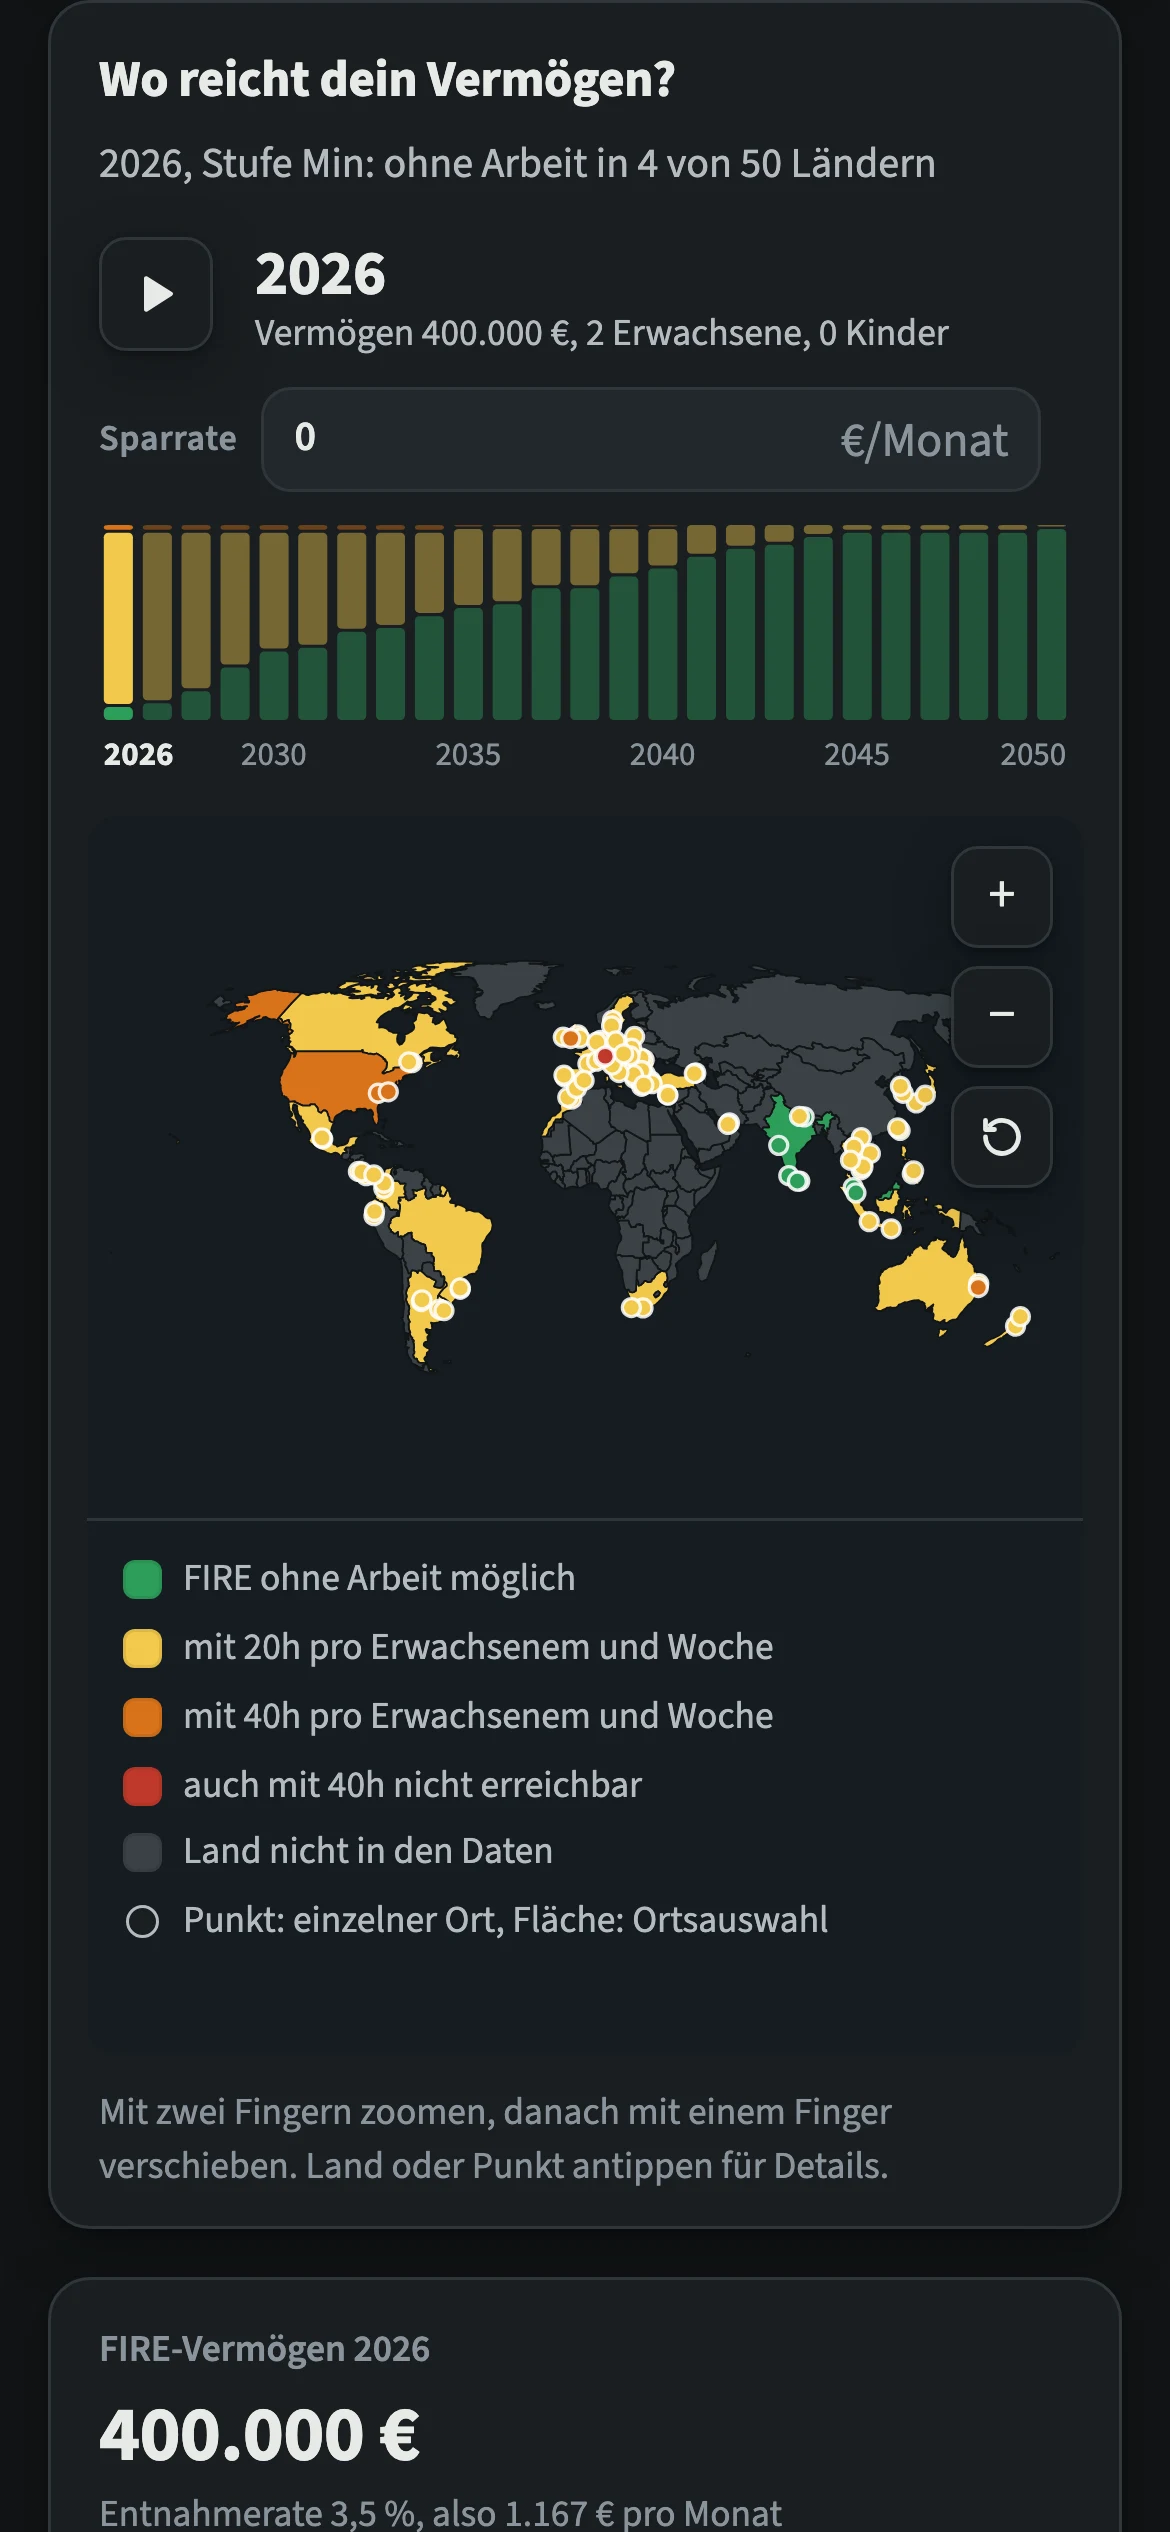
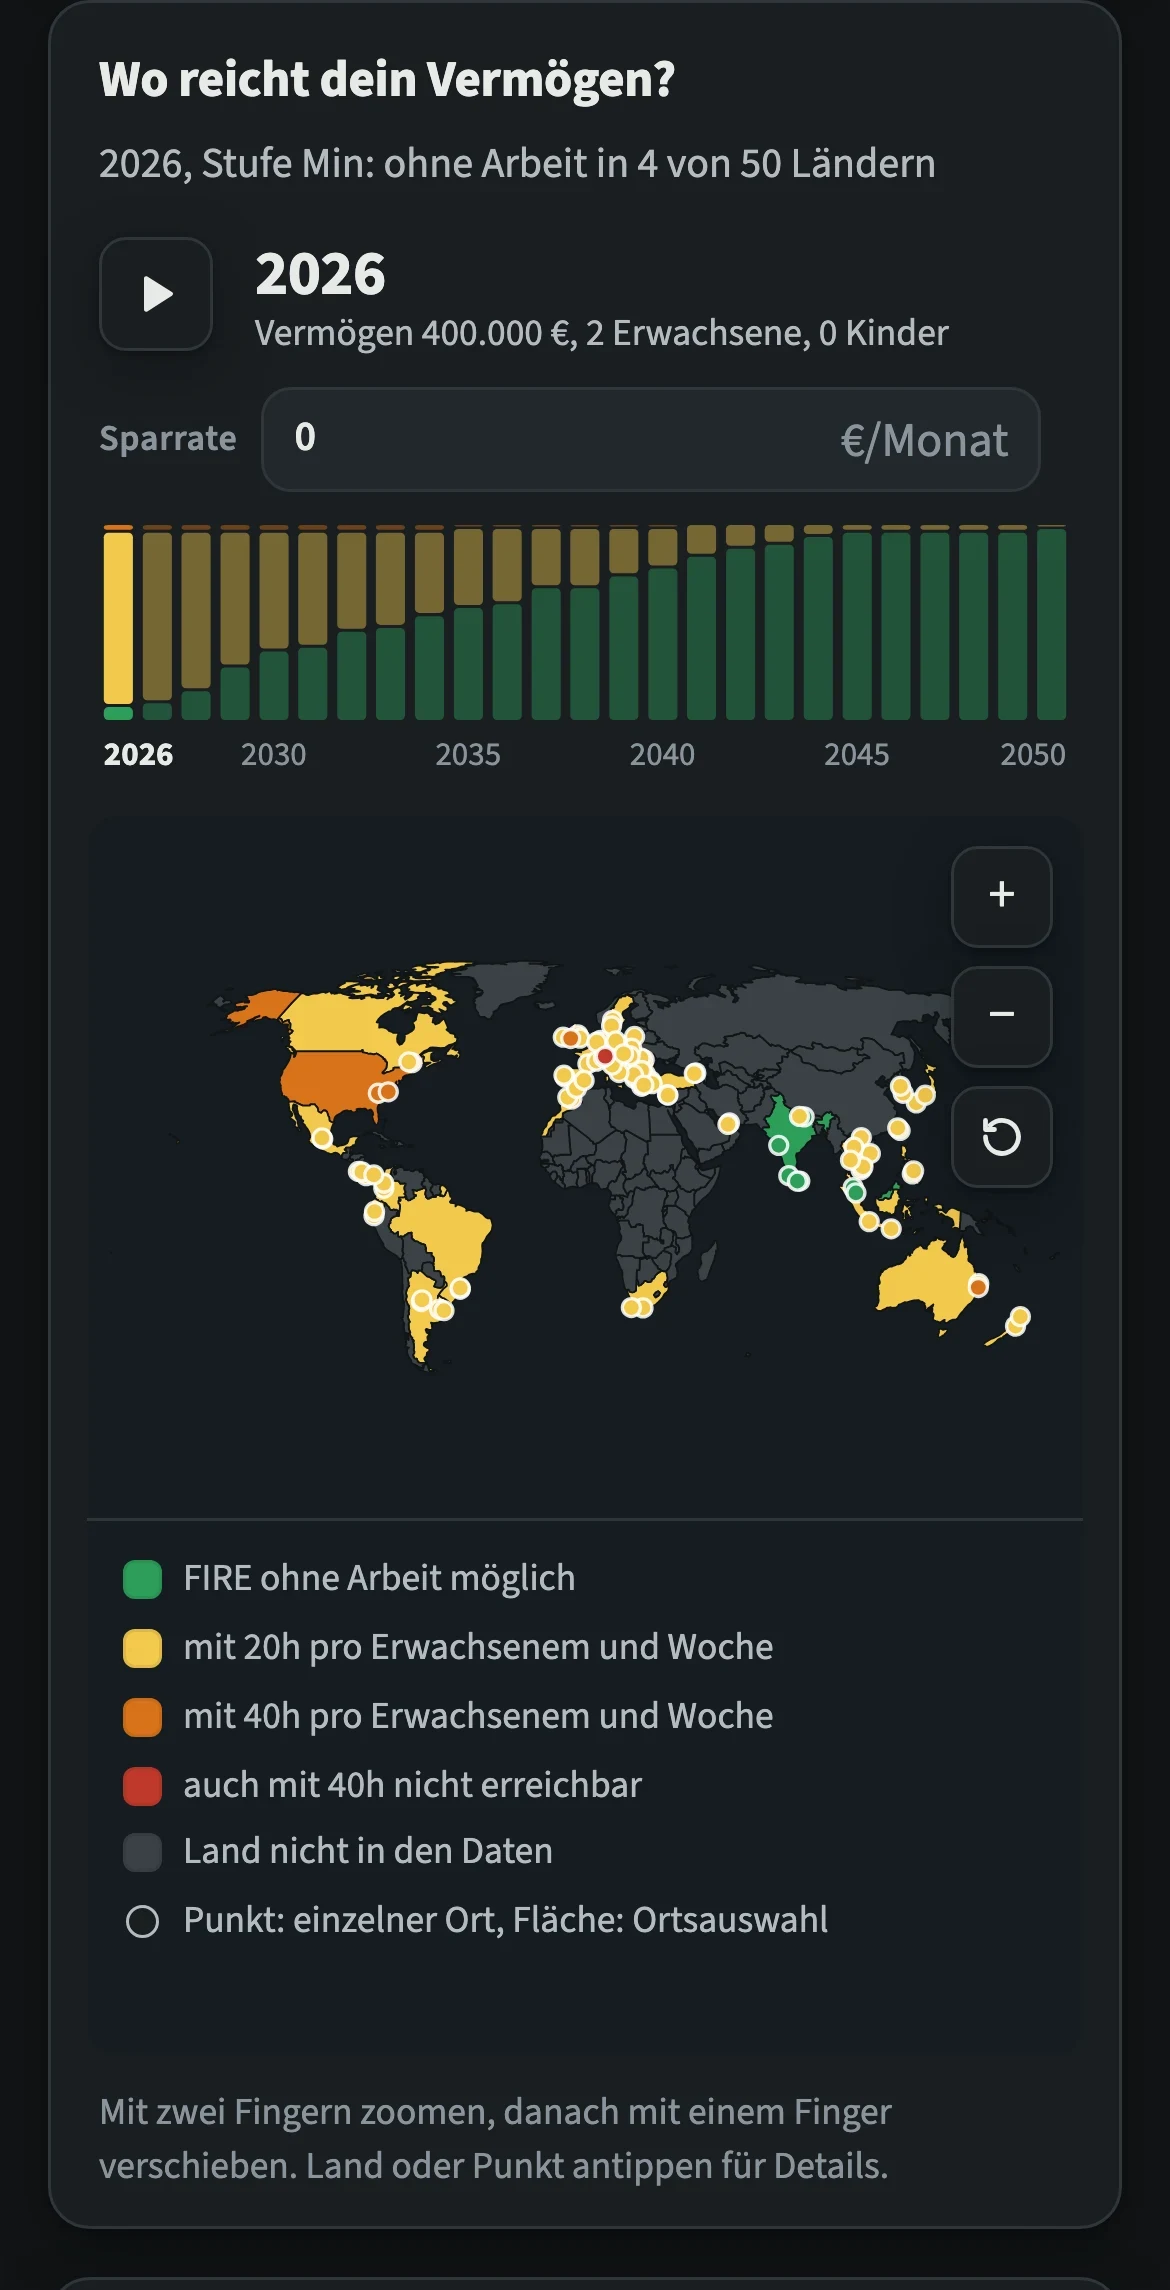
Live-Prüfung: Link-Vorschaubild, Karte als Sprungziel, noindex für die App, Wortmarke mobil, Zoom-Knöpfe unten, Hero-Handybild beschnitten

Changed region(s): [[0.0615, 0.0, 0.9231, 0.8681], [0.0615, 0.8991, 0.7692, 1.0]]

diff --git a/index.html b/index.html
@@ -15,6 +15,13 @@
 <meta property="og:description" content="Interaktive Weltkarte mit 99 Orten in 50 Ländern: wo dein Vermögen rechnerisch ohne Arbeit reicht, wo mit 20 oder 40 Stunden pro Woche. Beta, kostenlos, ohne Konto.">
 <meta property="og:type" content="website">
 <meta property="og:locale" content="de_DE">
+<meta property="og:url" content="https://peppe1337.github.io/freiatlas/">
+<meta property="og:image" content="https://peppe1337.github.io/freiatlas/assets/og.png">
+<meta property="og:image:width" content="1200">
+<meta property="og:image:height" content="630">
+<meta property="og:image:alt" content="Freiatlas: Weltkarte mit Ampelfarben, wo dein Vermögen reicht">
+<meta name="twitter:card" content="summary_large_image">
+<meta name="twitter:image" content="https://peppe1337.github.io/freiatlas/assets/og.png">
 <link rel="icon" href="favicon.svg" type="image/svg+xml">
 <link rel="icon" href="favicon.ico" sizes="any">
 <link rel="apple-touch-icon" href="apple-touch-icon.png">
@@ -131,7 +138,7 @@
   .brand { display: inline-flex; align-items: center; color: var(--fa-word); text-decoration: none; }
   .brand .lockup { display: block; width: 180px; height: 28px; }
   .brand .mark-only { display: none; width: 28px; height: 28px; }
-  @media (max-width: 479px) { .brand .lockup { display: none; } .brand .mark-only { display: block; } }
+  @media (max-width: 479px) { .brand .lockup { width: 154px; height: 24px; } }
   .topnav { display: flex; align-items: center; gap: 4px 16px; }
   .topnav ul { list-style: none; margin: 0; padding: 0; display: flex; gap: 4px; }
   .topnav li { margin: 0; }
@@ -357,7 +364,7 @@
         <li><a href="#modell">Modell</a></li>
         <li><a href="#faq">Fragen</a></li>
       </ul>
-      <a class="cta" href="app/">Karte öffnen</a>
+      <a class="cta" href="app/#karte">Karte öffnen</a>
     </nav>
     <details class="menu">
       <summary>Menü</summary>
@@ -367,7 +374,7 @@
           <li><a href="#beispiel">Beispiel</a></li>
           <li><a href="#modell">Modell</a></li>
           <li><a href="#faq">Fragen</a></li>
-          <li><a class="cta" href="app/">Karte öffnen</a></li>
+          <li><a class="cta" href="app/#karte">Karte öffnen</a></li>
         </ul>
       </nav>
     </details>
@@ -391,7 +398,7 @@
         <h1 id="h-hero">Alle Orte, an denen dein Vermögen&nbsp;reicht</h1>
         <p class="lead">Freiatlas ist eine Weltkarte mit 99 Orten in 50 Ländern. Du trägst Haushalt und Vermögen ein, und die Karte zeigt nach einem offengelegten Modell, wo es ohne Arbeit reicht, wo mit 20 oder 40 Stunden pro Woche, und wo noch nicht.</p>
         <div class="btn-row">
-          <a class="btn btn-primary" href="app/">Karte öffnen</a>
+          <a class="btn btn-primary" href="app/#karte">Karte öffnen</a>
           <a class="btn btn-secondary" href="#modell">So rechnet Freiatlas</a>
         </div>
         <p class="privacy">Alles wird in deinem Browser gerechnet, ohne Konto, ohne Cookies und ohne Tracking.</p>
@@ -399,8 +406,8 @@
       <figure>
         <div class="shot">
           <picture>
-            <source media="(prefers-color-scheme: dark) and (max-width: 720px)" srcset="assets/screens/mobile-dark.webp" width="390" height="844">
-            <source media="(max-width: 720px)" srcset="assets/screens/mobile-light.webp" width="390" height="844">
+            <source media="(prefers-color-scheme: dark) and (max-width: 720px)" srcset="assets/screens/mobile-dark.webp" width="390" height="763">
+            <source media="(max-width: 720px)" srcset="assets/screens/mobile-light.webp" width="390" height="763">
             <source media="(prefers-color-scheme: dark)" srcset="assets/screens/map-dark.webp" width="1208" height="824">
             <img src="assets/screens/map-light.webp" width="1208" height="824" alt="Weltkarte im Jahr 2026 mit Ländern in den Ampelfarben grün, gelb und orange, darüber die Zeitachse von 2026 bis 2050 und das Vermögen 400.000&#160;€." loading="eager" decoding="async" fetchpriority="high">
           </picture>
@@ -560,7 +567,7 @@
           <source media="(prefers-color-scheme: dark) and (max-width: 720px)" srcset="assets/screens/mobile-drawer-dark.webp" width="390" height="844">
             <source media="(max-width: 720px)" srcset="assets/screens/mobile-drawer-light.webp" width="390" height="844">
             <source media="(prefers-color-scheme: dark)" srcset="assets/screens/mobile-dark.webp">
-          <img src="assets/screens/mobile-light.webp" width="390" height="844" loading="lazy" decoding="async" alt="Die App auf einem Handybildschirm: Zeitachse auf 2026, Weltkarte mit Ampelfarben und Legende, auf schmalen Bildschirmen stattdessen die Kostenaufschlüsselung für Varkala.">
+          <img src="assets/screens/mobile-light.webp" width="390" height="763" loading="lazy" decoding="async" alt="Die App auf einem Handybildschirm: Zeitachse auf 2026, Weltkarte mit Ampelfarben und Legende, auf schmalen Bildschirmen stattdessen die Kostenaufschlüsselung für Varkala.">
         </picture>
       </div>
     </article>
@@ -712,7 +719,7 @@
         <h2 id="h-final">Schau nach, wo es heute schon reicht</h2>
         <p>Trag deinen Haushalt und dein Vermögen ein, die Karte antwortet nach einem Modell, dessen Rechenweg du an jedem Ort nachlesen kannst.</p>
         <div class="btn-row">
-          <a class="btn btn-primary" href="app/">Karte öffnen</a>
+          <a class="btn btn-primary" href="app/#karte">Karte öffnen</a>
         </div>
       </div>
     </div>

diff --git a/app/index.html b/app/index.html
@@ -6,6 +6,7 @@
 <meta name="color-scheme" content="light dark">
 <meta http-equiv="Content-Security-Policy" content="default-src 'self'; script-src 'self' 'unsafe-inline'; style-src 'self' 'unsafe-inline'; img-src 'self' data:; connect-src 'self'; base-uri 'self'; form-action 'none'">
 <meta name="referrer" content="no-referrer">
+<meta name="robots" content="noindex">
 <title>Freiatlas</title>
 <meta name="description" content="Wo kannst du mit deinem Vermögen finanziell unabhängig leben, und wie viel Arbeit wäre dafür nötig? Interaktive Weltkarte für FIRE und Auswandern, mit 99 Orten in 50 Ländern.">
 <meta property="og:title" content="Freiatlas">
@@ -82,6 +83,8 @@ body {
 h1 { font-size: 26px; line-height: 1.2; margin: 0 0 6px; letter-spacing: -.01em; }
 .brand-lockup { display: flex; align-items: center; gap: 12px; font: 500 30px/1 "Newsreader Variable", Georgia, "Times New Roman", serif; font-optical-sizing: auto; letter-spacing: -.005em; margin: 0 0 8px; }
 .brand-mark { width: 30px; height: 30px; flex: none; }
+.brand-lockup a { display: flex; align-items: center; gap: inherit; color: inherit; text-decoration: none; }
+.brand-lockup a:hover { color: var(--accent); }
 h2 { font-size: 17px; margin: 0; letter-spacing: -.005em; }
 .lede { margin: 0; color: var(--ink-2); max-width: 70ch; }
 .page-head { margin-bottom: 20px; }
@@ -285,6 +288,7 @@ section + section { margin-top: 16px; }
 .tl-chart:focus-visible { outline: 2px solid var(--accent); outline-offset: 4px; }
 .tl-chart svg { display: block; width: 100%; height: 100%; overflow: visible; }
 .tl-chart .bar { transition: opacity .15s; }
+@media (prefers-color-scheme: dark) { .tl-chart g.bar { opacity: .62; } .tl-chart g.bar.sel { opacity: 1; } }
 .tl-chart .axis { font-size: 11px; fill: var(--muted); }
 .tl-chart .axis.now { fill: var(--ink); font-weight: 700; }
 .tl-chart .cursor { fill: var(--ink); }
@@ -528,6 +532,7 @@ footer p { margin: 0 0 4px; }
   .seg button { flex: 1 1 auto; padding: 6px 8px; }
   .field-note { max-width: none; }
   .tl-save { margin-left: 0; width: 100%; }
+  .zoom-ctl { top: auto; bottom: 10px; }
   .drawer {
     top: auto; left: 0; width: 100%; max-height: 88vh; border-left: 0; border-top: 1px solid var(--border);
     border-radius: 16px 16px 0 0; transform: translateY(100%);
@@ -547,7 +552,7 @@ footer p { margin: 0 0 4px; }
 <body>
 <div class="wrap">
   <header class="page-head">
-    <h1 class="brand-lockup"><svg class="brand-mark" viewBox="0 0 64 64" aria-hidden="true" focusable="false"><style>.fa-line{stroke:var(--fa-line)}.fa-dot{fill:var(--fa-dot)}</style><defs><mask id="fa-gap" maskUnits="userSpaceOnUse" x="0" y="0" width="64" height="64"><rect width="64" height="64" fill="#fff"/><circle cx="40.8" cy="20" r="8" fill="#000"/></mask></defs><circle class="fa-line" cx="32" cy="32" r="26" fill="none" stroke-width="4.5"/><g class="fa-line" mask="url(#fa-gap)" fill="none" stroke-linecap="round"><path d="M6 32H58" stroke-width="4.5"/><path d="M32 6A10 26 0 0 1 32 58" stroke-width="3.5"/></g><circle class="fa-dot" cx="40.8" cy="20" r="5.5"/></svg>Freiatlas</h1>
+    <h1 class="brand-lockup"><a href="../" aria-label="Zur Startseite"><svg class="brand-mark" viewBox="0 0 64 64" aria-hidden="true" focusable="false"><style>.fa-line{stroke:var(--fa-line)}.fa-dot{fill:var(--fa-dot)}</style><defs><mask id="fa-gap" maskUnits="userSpaceOnUse" x="0" y="0" width="64" height="64"><rect width="64" height="64" fill="#fff"/><circle cx="40.8" cy="20" r="8" fill="#000"/></mask></defs><circle class="fa-line" cx="32" cy="32" r="26" fill="none" stroke-width="4.5"/><g class="fa-line" mask="url(#fa-gap)" fill="none" stroke-linecap="round"><path d="M6 32H58" stroke-width="4.5"/><path d="M32 6A10 26 0 0 1 32 58" stroke-width="3.5"/></g><circle class="fa-dot" cx="40.8" cy="20" r="5.5"/></svg>Freiatlas</a></h1>
     <p class="lede">Wo kannst du mit deinem Vermögen finanziell unabhängig leben, und wie viel Arbeit wäre dafür nötig? Trag deine Daten ein, die Karte rechnet sofort mit.</p>
     <p class="privacy-line"><svg viewBox="0 0 16 16" aria-hidden="true"><path d="M8 1.5 2.5 3.8v3.6c0 3.3 2.3 6.2 5.5 7.1 3.2-.9 5.5-3.8 5.5-7.1V3.8L8 1.5z" fill="none" stroke="currentColor" stroke-width="1.4" stroke-linejoin="round"/></svg>Alles wird in deinem Browser berechnet. Deine Eingaben werden nicht übertragen.</p>
   </header>
@@ -649,7 +654,7 @@ footer p { margin: 0 0 4px; }
       </div>
     </section>
 
-    <section class="card map-card" aria-label="Weltkarte">
+    <section class="card map-card" id="karte" aria-label="Weltkarte">
       <div class="map-head">
         <h2>Wo reicht dein Vermögen?</h2>
         <div class="map-sub" id="map-sub"></div>
@@ -1464,7 +1469,7 @@ window.FIRE_DATA = {"indices":{"Albanien":{"col":0.7028,"rent":0.4504,"groc":0.9
       var y = barsH;
       var sel = t.year === state.year;
       var title = t.year + ': ' + STATUS.map(function (s, i) { return counts[i] + ' ' + s.short; }).join(', ');
-      html += '<g class="bar" opacity="' + (sel ? 1 : 0.42) + '"><title>' + esc(title) + '</title>';
+      html += '<g class="bar' + (sel ? ' sel' : '') + '" opacity="' + (sel ? 1 : 0.42) + '"><title>' + esc(title) + '</title>';
       counts.forEach(function (cnt, i) {
         if (!cnt) return;
         var sh = cnt / total * barsH;
